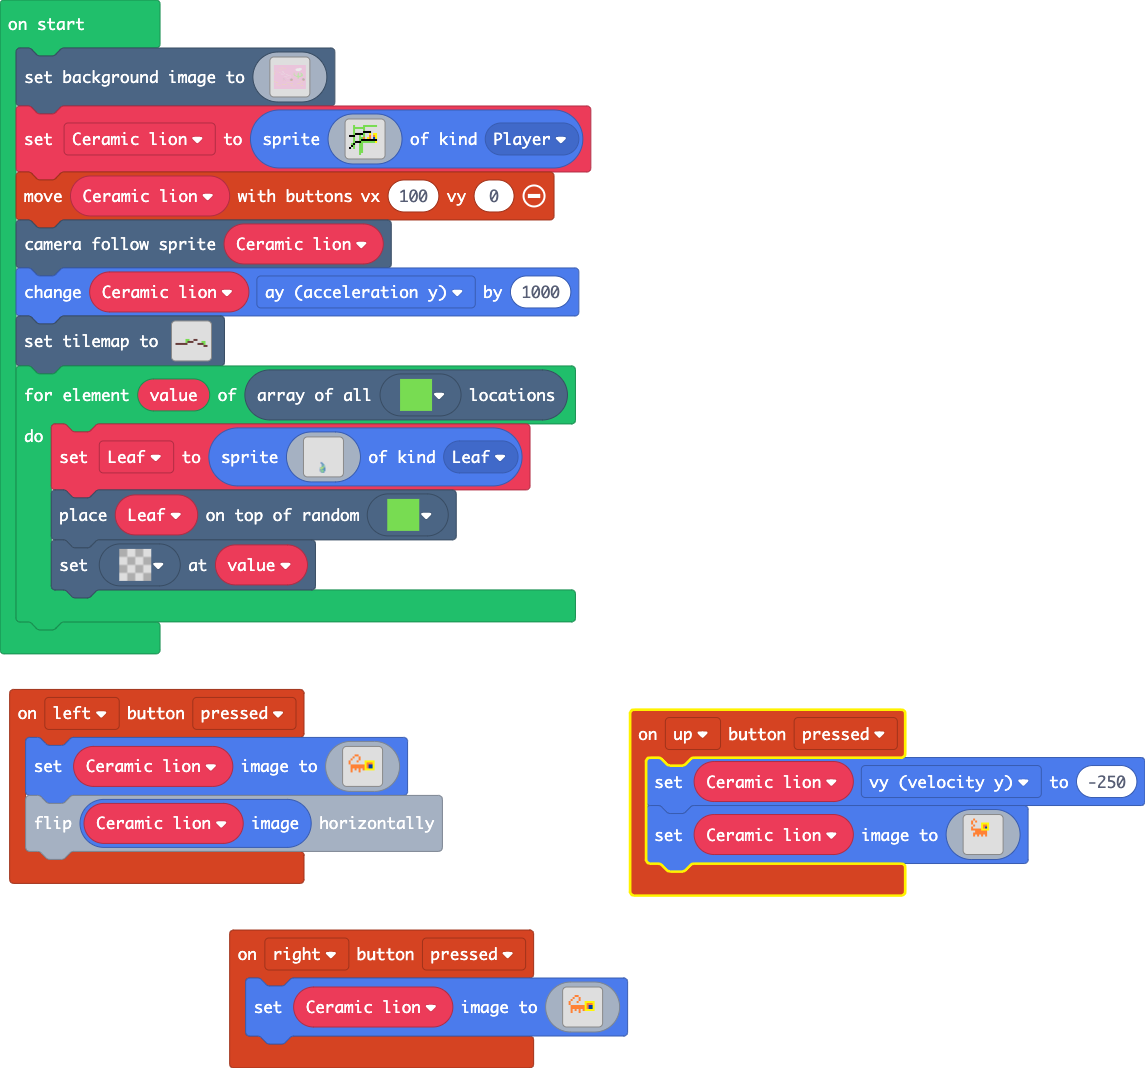
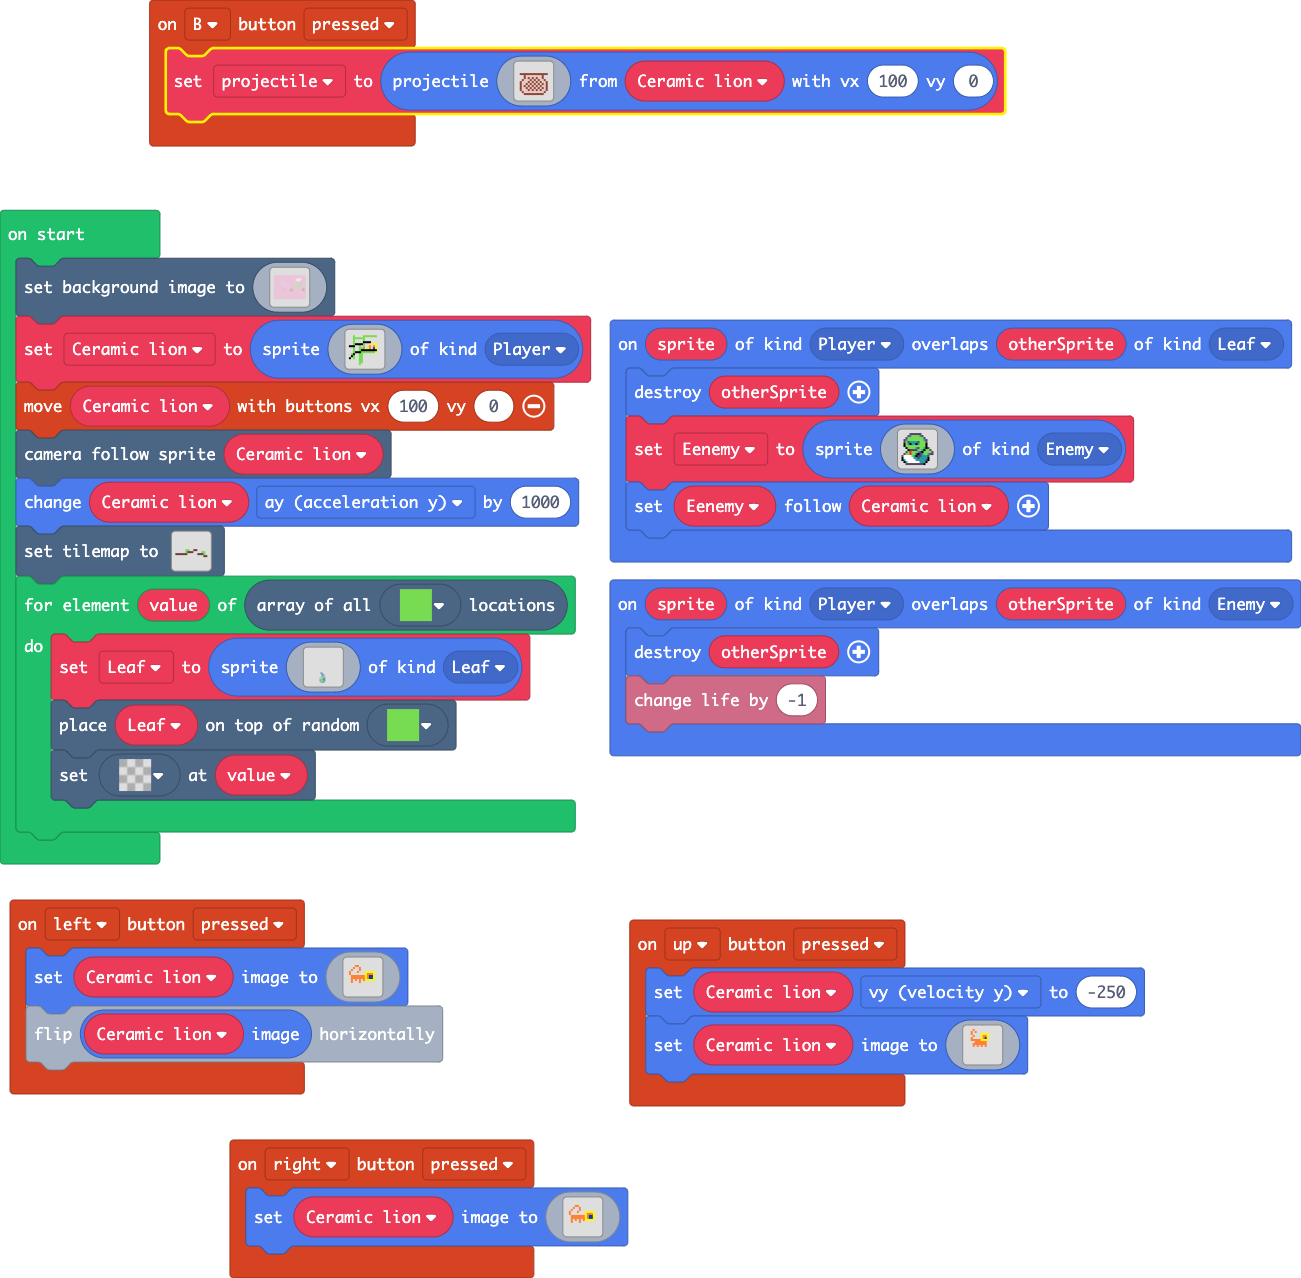
Update main.blocks, main.ts

diff --git a/main.ts b/main.ts
@@ -100,6 +100,30 @@ controller.left.onEvent(ControllerButtonEvent.Pressed, function () {
 `)
     Ceramic_lion.image.flipX()
 })
+controller.B.onEvent(ControllerButtonEvent.Pressed, function () {
+    projectile = sprites.createProjectileFromSprite(img`
+. . . . . . . . . . . . . . . . 
+. . . . . . . . . . . . . . . . 
+. . . . . . . . . . . . . . . . 
+. . . . . . . . . . . . . . . . 
+. e e e e e e e e e e e e e e . 
+. . . e d d d d d d d d e . . . 
+. . . e d e d e d e d d e . . . 
+. . e d d d e d e d e d d e . . 
+. e d d d e d e d e d e d d e . 
+. e d d e d e d e d e d e d e . 
+. e d e d e d e d e d e d d e . 
+. e d d e d e d e d e d e d e . 
+. e d d d e d e d e d e d d e . 
+. . e d d d d d d d d d d e . . 
+. . . e e e e e e e e e e . . . 
+. . . . . . . . . . . . . . . . 
+`, Ceramic_lion, 100, 0)
+})
+sprites.onOverlap(SpriteKind.Player, SpriteKind.Enemy, function (sprite, otherSprite) {
+    otherSprite.destroy()
+    info.changeLifeBy(-1)
+})
 controller.right.onEvent(ControllerButtonEvent.Pressed, function () {
     Ceramic_lion.setImage(img`
 . . . . . . . . . . . . . . . . 
@@ -141,6 +165,30 @@ controller.up.onEvent(ControllerButtonEvent.Pressed, function () {
 . . . . . . . . . . . . . . . . 
 `)
 })
+sprites.onOverlap(SpriteKind.Player, SpriteKind.Leaf, function (sprite, otherSprite) {
+    otherSprite.destroy()
+    Eenemy = sprites.create(img`
+. . . . c c c c c c . . . . . . 
+. . . c 6 7 7 7 7 6 c . . . . . 
+. . c 7 7 7 7 7 7 7 7 c . . . . 
+. c 6 7 7 7 7 7 7 7 7 6 c . . . 
+. c 7 c 6 6 6 6 c 7 7 7 c . . . 
+. f 7 6 f 6 6 f 6 7 7 7 f . . . 
+. f 7 7 7 7 7 7 7 7 7 7 f . . . 
+. . f 7 7 7 7 6 c 7 7 6 f c . . 
+. . . f c c c c 7 7 6 f 7 7 c . 
+. . c 7 2 7 7 7 6 c f 7 7 7 7 c 
+. c 7 7 2 7 7 c f c 6 7 7 6 c c 
+c 1 1 1 1 7 6 f c c 6 6 6 c . . 
+f 1 1 1 1 1 6 6 c 6 6 6 6 f . . 
+f 6 1 1 1 1 1 6 6 6 6 6 c f . . 
+. f 6 1 1 1 1 1 1 6 6 6 f . . . 
+. . c c c c c c c c c f . . . . 
+`, SpriteKind.Enemy)
+    Eenemy.follow(Ceramic_lion)
+})
+let Eenemy: Sprite = null
+let projectile: Sprite = null
 let Leaf: Sprite = null
 let Ceramic_lion: Sprite = null
 scene.setBackgroundImage(img`
